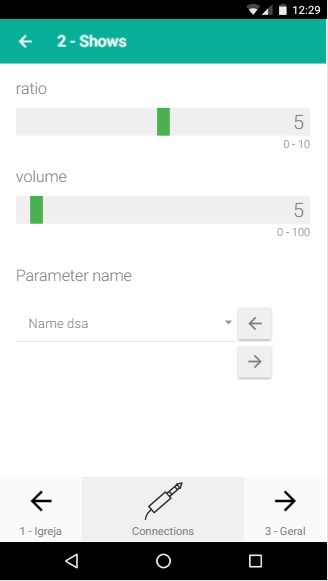
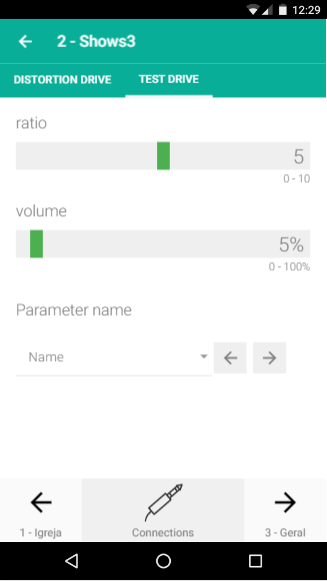
Added HomePage button ripple. Added sr-tabs in PatchPage

diff --git a/app/pages/home/home.html b/app/pages/home/home.html
@@ -1,26 +1,39 @@
 <ion-navbar *navbar>
   <ion-title>
-    Início
+    PedalPi - Home 
   </ion-title>
 </ion-navbar>
 
 <ion-content class="home">
   <ion-list no-lines>
-    <ion-item id="PedalPi" (click)="goToPedalPi(repo)">
-      <ion-icon item-left><img src="img/raspberry_pi.png" /></ion-icon>
-       PedalPi
-    </ion-item>
-    <ion-item  id="Local">
-      <ion-icon item-left><img src="img/local-folder.svg" /></ion-icon>
-      Local
-    </ion-item>
-    <ion-item id="CurrentPatch">
-      <ion-icon item-left><img src="img/patch.svg" /></ion-icon>
-      Current Patch
-    </ion-item>
-    <ion-item  id="Configurations">
+
+    <ion-card (click)="goToPedalPi(repo)">
+      <button ion-item>
+        <ion-icon item-left><img src="img/raspberry_pi.png" /></ion-icon>
+        <ion-item>PedalPi</ion-item>
+      </button>
+    </ion-card>
+
+    <ion-card>
+      <button ion-item>
+        <ion-icon item-left><img src="img/local-folder.svg" /></ion-icon>
+        <ion-item>Local</ion-item>
+      </button>
+    </ion-card>
+
+    <ion-card>
+      <button ion-item>
+        <ion-icon item-left><img src="img/patch.svg" /></ion-icon>
+        <ion-item>Current Patch</ion-item>
+      </button>
+    </ion-card>
+
+    <ion-card>
+      <button ion-item>
       <ion-icon item-left><img src="img/configurations.svg" /></ion-icon>
-      Configurations
-    </ion-item>
+      <ion-item>Configurations</ion-item>
+    </button>
+  </ion-card>
+
   </ion-list>
 </ion-content>

diff --git a/app/pages/patches/patches.ts b/app/pages/patches/patches.ts
@@ -46,17 +46,24 @@ export class PatchesPage {
                         "company": "Guitarix",
                         "params": [
                             {
-                                "name": "ratio",
-                                "min": 0,
+                                "name": "speed",
+                                "min": 5,
                                 "max": 10,
-                                "current": 5
+                                "current": 7
                             },
                             {
-                                "name": "volume",
-                                "min": 0,
+                                "name": "drive",
+                                "min": 50,
                                 "max": 100,
-                                "current": 5,
+                                "current": 57,
                                 "unit": "%"
+                            },
+                            {
+                                "name": "gain",
+                                "min": -50,
+                                "max": 50,
+                                "current": 0,
+                                "unit": "db"
                             }
                         ],
                         "active" : true

diff --git a/app/pages/banks/banks.ts b/app/pages/banks/banks.ts
@@ -3,11 +3,9 @@ import {PatchesPage} from '../patches/patches';
 
 import {JsonService} from '../../service/json';
 import {AlertCommon} from '../../common/alert';
-import {LongPressDirective} from '../../directives/longPress.directive';
 
 @Page({
-  templateUrl: 'build/pages/banks/banks.html',
-  directives: [LongPressDirective]
+  templateUrl: 'build/pages/banks/banks.html'
 })
 export class BanksPage {
   nav : NavController;
@@ -35,15 +33,22 @@ export class BanksPage {
     this.nav.present(alert);
   }
 
-  onContextBank(event, bank) {
+  onContextBank(bank) {
     const contextMenu = ActionSheet.create({
       title: bank.name,
       cssClass: 'context',
       buttons: [{
+          text: 'Reorder',
+          handler: () => {
+            console.log('Beta 2.10 https://github.com/driftyco/ionic/issues/5595');
+            console.log('http://codepen.io/leoz/pen/MwYxmj');
+          }
+        }, {
           text: 'Remove',
           role: 'destructive',
           handler: () => {
             console.log('Destructive clicked');
+            console.log('https://github.com/driftyco/ionic/issues/5073');
           }
         }, {
           text: 'Rename',

diff --git a/app/pages/patch/patch.ts b/app/pages/patch/patch.ts
@@ -3,30 +3,20 @@ import {Component} from '@angular/core';
 
 import {SrSlider} from '../../components/sr-slider/sr-slider';
 import {SrCombobox} from '../../components/sr-combobox/sr-combobox';
+import {SrTabs} from '../../components/sr-tabs/sr-tabs';
+import {SrTab} from '../../components/sr-tabs/sr-tab';
 
 @Page({
   templateUrl: 'build/pages/patch/patch.html',
-  directives: [SrSlider, SrCombobox]
+  directives: [SrSlider, SrCombobox, SrTabs, SrTab]
 })
 export class PatchPage {
   private nav : NavController;
   private params : NavParams;
   public patch : Object;
-  public parameter : Object;
 
   constructor(nav : NavController, params : NavParams) {
     this.nav = nav;
     this.patch = params.get('patch');
-
-    this.parameter = {
-      name: 'Parameter example',
-      min: 0,
-      max: 100,
-      current: 55
-    };
-  }
-
-  chat() {
-    console.log("Teste");
   }
 }

diff --git a/app/components/sr-tabs/sr-tabs.ts b/app/components/sr-tabs/sr-tabs.ts
@@ -1,0 +1,30 @@
+import {Component, ContentChildren, QueryList, AfterContentInit } from '@angular/core';
+
+import { SrTab } from './sr-tab';
+
+@Component({
+  selector: 'sr-tabs',
+  template:`
+    <ul class="nav nav-tabs">
+      <li *ngFor="let tab of tabs" (click)="selectTab(tab)" [class.active]="tab.active">
+        <button clear>{{tab.title}}</button>
+      </li>
+    </ul>
+    <ng-content></ng-content>
+  `
+})
+export class SrTabs implements AfterContentInit {
+  @ContentChildren(SrTab) tabs: QueryList<SrTab>;
+
+  ngAfterContentInit() {
+    let activeTabs = this.tabs.filter(tab => tab.active);
+
+    const tab = activeTabs.length === 0 ? this.tabs.first : activeTabs[0];
+    this.selectTab(tab);
+  }
+
+  selectTab(tab : SrTab) {
+    this.tabs.toArray().forEach(tab => tab.active = false);
+    tab.active = true;
+  }
+}

diff --git a/app/components/sr-combobox/sr-combobox.html b/app/components/sr-combobox/sr-combobox.html
@@ -3,18 +3,18 @@
 
   <ion-grid>
     <ion-row>
-      <ion-col width-75>
+      <ion-col width-67>
         <ion-select id="select" [(ngModel)]="selected">
           <ion-option *ngFor="let option of parameter.options" [value]="option.value">{{option.name}}</ion-option>
         </ion-select>
       </ion-col>
 
-      <ion-col width-25>
-        <button class="button">
+      <ion-col width-33>
+        <button clear class="button">
           <ion-icon name="arrow-back"></ion-icon>
         </button>
 
-        <button class="button">
+        <button clear class="button">
           <ion-icon name="arrow-forward"></ion-icon>
         </button>
       </ion-col>

diff --git a/app/components/sr-slider/sr-slider.html b/app/components/sr-slider/sr-slider.html
@@ -5,9 +5,9 @@
     min="{{parameter.min}}" max="{{parameter.max}}" value="{{parameter.current}}"
     step="1" [(ngModel)]="parameter.current" />
 
-  <output id="current" for="volume">{{parameter.current}}</output>
+  <output id="current" for="volume">{{parameter.current}}{{parameter.unit}}</output>
   <div id="interval">
-    <output id="max" for="volume">{{parameter.max}}</output> -
-    <output id="min" for="volume">{{parameter.min}}</output>
+    <output id="min" for="volume">{{parameter.min}}</output> -
+    <output id="max" for="volume">{{parameter.max}}{{parameter.unit}}</output>
   </div>
 </div>

diff --git a/app/pages/patch/patch.html b/app/pages/patch/patch.html
@@ -5,8 +5,12 @@
 </ion-navbar>
 
 <ion-content class="patch">
-  <sr-slider [parameter]="parameter" *ngFor="let parameter of patch.effects[0].params"></sr-slider>
-  <sr-combobox></sr-combobox>
+  <sr-tabs>
+    <sr-tab *ngFor="let effect of patch.effects" title="{{effect.name}}">
+      <sr-slider [parameter]="parameter" *ngFor="let parameter of effect.params"></sr-slider>
+      <sr-combobox></sr-combobox>
+    </sr-tab>
+  </sr-tabs>
 
   <ion-grid id="footer">
     <ion-row>

diff --git a/app/pages/home/home.scss b/app/pages/home/home.scss
@@ -1,13 +1,29 @@
 .home {
-  ion-list .item {
+  ion-list ion-item {
     padding-top: 10px;
     padding-bottom: 10px;
 
-    font-size: 2em;
+    font-size: 3rem;
     font-weight: lighter;
   }
 
   ion-list ion-icon img {
       width: 80px;
+  }
+
+  ion-card {
+    box-shadow: none;
+  }
+
+  ion-card button {
+    margin: 0;
+  }
+
+  ion-item {
+    background-color: rgba(0, 0, 0, 0);
+  }
+
+  ion-card .item-inner {
+    margin: 0;
   }
 }

diff --git a/app/pages/banks/banks.html b/app/pages/banks/banks.html
@@ -11,7 +11,7 @@
 
 <ion-content class="banks">
   <ion-list no-lines>
-    <ion-item *ngFor="let bank of banks" (click)="itemSelected(bank)" longPress (onLongPress)="onContextBank($event, bank)">
+    <ion-item *ngFor="let bank of banks" (click)="itemSelected(bank)" (press)="onContextBank(bank)">
       <ion-icon name="folder" item-left></ion-icon>
        {{bank.name}}
     </ion-item>

diff --git a/app/components/sr-tabs/sr-tabs.scss b/app/components/sr-tabs/sr-tabs.scss
@@ -1,0 +1,23 @@
+sr-tabs {
+  display: block;
+  margin-top: -1px;
+
+  ul {
+    background-color: $toolbar-background;
+    margin: 0;
+    padding: 0;
+  }
+
+  li {
+    display: inline-block;
+  }
+
+  li.active {
+    border-bottom: 3px solid white;
+    height: 44px;
+  }
+
+  li button {
+    color: white !important;
+  }
+}

diff --git a/app/components/sr-tabs/sr-tab.ts b/app/components/sr-tabs/sr-tab.ts
@@ -1,0 +1,14 @@
+import { Component, Input } from '@angular/core';
+
+@Component({
+  selector: 'sr-tab',
+  template: `
+    <div [hidden]="!active">
+      <ng-content></ng-content>
+    </div>
+  `
+})
+export class SrTab {
+  @Input() title: string;
+  @Input() active = false;
+}
